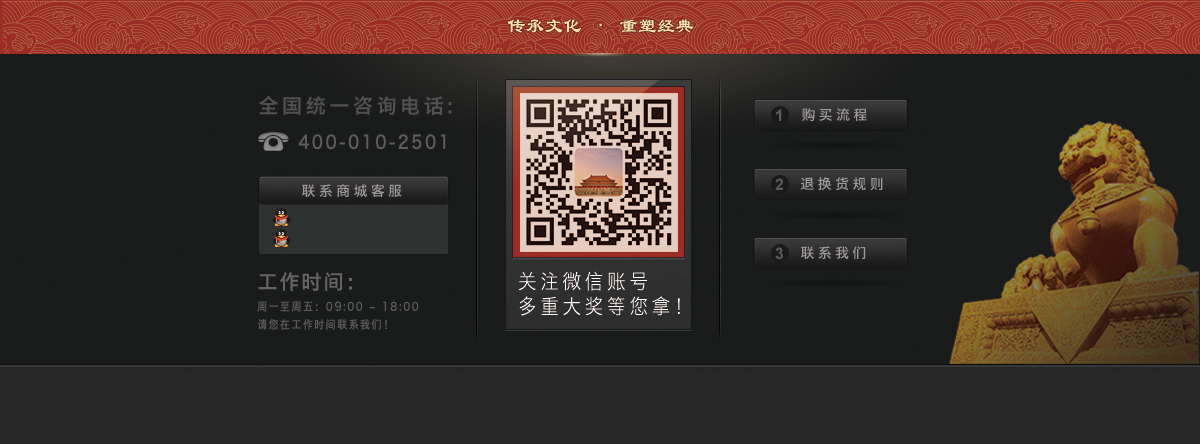
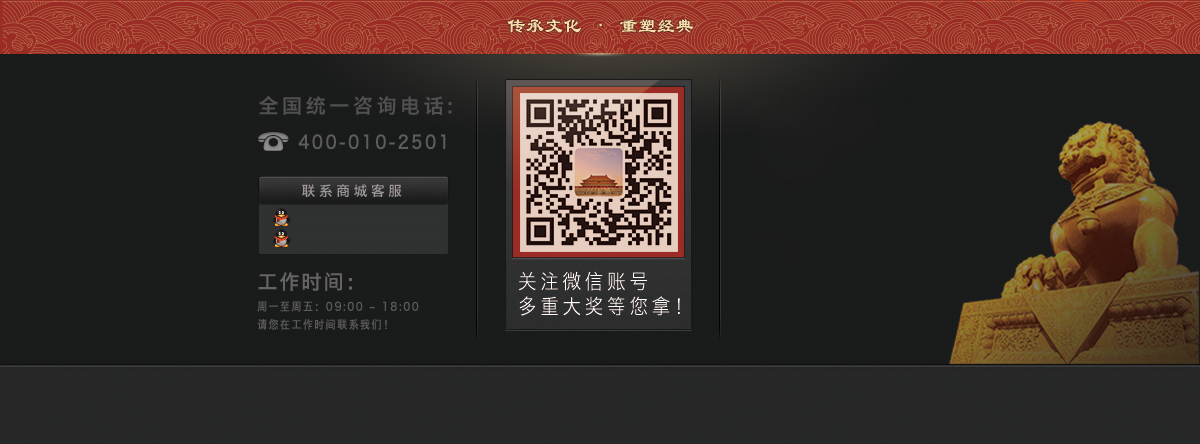
update

Changed region(s): [[0.6167, 0.205, 0.7708, 0.2928], [0.6167, 0.527, 0.7708, 0.5856], [0.6167, 0.3806, 0.7708, 0.4392]]

diff --git a/html/css/style.css b/html/css/style.css
@@ -163,17 +163,49 @@ body{
 	text-decoration: none;
 	background: url(../images/list_menu_hover.png) 0 -38px no-repeat;
 }
+
+@keyframes myfirst
+{
+0% {background: #fff;border: 5px solid #fff;}
+100% {background: #D5BA5A;border: 5px solid #D5BA5A;}
+}
+
+@-moz-keyframes myfirst /* Firefox */
+{
+0% {background: #fff;border: 5px solid #fff;}
+100% {background: #D5BA5A;border: 5px solid #D5BA5A;}
+}
+
+@-webkit-keyframes myfirst /* Safari 和 Chrome */
+{
+0% {background: #fff;border: 5px solid #fff;}
+100% {background: #D5BA5A;border: 5px solid #D5BA5A;}
+}
+
+@-o-keyframes myfirst /* Opera */
+{
+0% {background: #fff;border: 5px solid #fff;}
+100% {background: #D5BA5A;border: 5px solid #D5BA5A;}
+}
 .list_item_wrap li{
 	display: inline-block;
 	width: 255px;
 	height: 203px;
-	padding: 20px;
 	margin-left: 80px;
+	padding-bottom: 10px;
 	margin-bottom: 50px;
-	background: url(../images/list_box_bg1.png) no-repeat;
+	background: #fff;border: 5px solid #fff;
 }
 .list_item_wrap li.active{
-	background: url(../images/list_box_bg.png) no-repeat;
+	animation-iteration-count:1;
+	-webkit-animation-iteration-count:1; 
+	animation: myfirst .5s;
+	-moz-animation: myfirst .5s;
+	-webkit-animation: myfirst .5s;
+	-o-animation: myfirst .5s;
+	animation-direction:alternate;
+	-webkit-animation-direction:alternate;
+	background: #D5BA5A;border: 5px solid #D5BA5A;
 }
 
 .list_item_wrap li a{
@@ -190,12 +222,7 @@ body{
 	top: 0px;
 	left: 0px;
 }
-.list_item_wrap li.active a img{
-	width: 315px;
-	height: 198px;
-	top: -19px;
-	left: -19px;
-}
+
 .list_item_wrap li a div{
 	height: 30px;
 	padding: 10px;
@@ -219,7 +246,7 @@ body{
 	line-height: 16px;
 }
 .list_item_wrap li a:hover p, .list_item_wrap li a:hover span{
-	color: #f58945
+	color: #fff
 }
 .list_item_wrap span{
 	white-space: nowrap;
@@ -1066,4 +1093,28 @@ select{
 	display: inline-block;
 	text-decoration: none;
 	font-size: 14px;
+}
+
+.a_link{
+	position: absolute;
+	top: 100px;
+	left: 755px;
+}
+.a_link a{
+	display: block;
+	width: 137px;
+	height: 55px;
+	padding-left: 17px;
+	background: url(../images/footer_a_bg.jpg) no-repeat;
+	font-size: 14px;
+	color: #a8a7a8;
+	text-decoration: none;
+	line-height: 32px;
+	margin-bottom: 15px;
+}
+.a_link a em{
+	display: inline-block;
+	width: 18px;
+	text-align: center;
+	margin-right: 15px
 }

diff --git a/html/item.html b/html/item.html
@@ -171,6 +171,11 @@
 			<a onclick="javascript:window.open('http://b.qq.com/webc.htm?new=0&amp;sid=2405232166&amp;q=7&amp;ref='+document.location, '_blank', 'height=544, width=644,toolbar=no,scrollbars=no,menubar=no,status=no');">QQ1：2405232166</a>
 			<a onclick="javascript:window.open('http://b.qq.com/webc.htm?new=0&amp;sid=3125281867&amp;q=7&amp;ref='+document.location, '_blank', 'height=544, width=644,toolbar=no,scrollbars=no,menubar=no,status=no');">QQ2：3125281867</a>
 		</div>
+		<div class="a_link">
+			<a href="#"><em>1</em>购买流程</a>
+			<a href="#"><em>2</em>退换货规则</a>
+			<a href="#"><em>3</em>联系我们</a>
+		</div>
 		<img src="images/footer.png" alt="">
 	</div>
 </div>

diff --git a/html/list.html b/html/list.html
@@ -195,6 +195,11 @@
 			<a onclick="javascript:window.open('http://b.qq.com/webc.htm?new=0&amp;sid=2405232166&amp;q=7&amp;ref='+document.location, '_blank', 'height=544, width=644,toolbar=no,scrollbars=no,menubar=no,status=no');">QQ1：2405232166</a>
 			<a onclick="javascript:window.open('http://b.qq.com/webc.htm?new=0&amp;sid=3125281867&amp;q=7&amp;ref='+document.location, '_blank', 'height=544, width=644,toolbar=no,scrollbars=no,menubar=no,status=no');">QQ2：3125281867</a>
 		</div>
+		<div class="a_link">
+			<a href="#"><em>1</em>购买流程</a>
+			<a href="#"><em>2</em>退换货规则</a>
+			<a href="#"><em>3</em>联系我们</a>
+		</div>
 		<img src="images/footer.png" alt="">
 	</div>
 </div>

diff --git a/html/shop.html b/html/shop.html
@@ -182,6 +182,11 @@
 			<a onclick="javascript:window.open('http://b.qq.com/webc.htm?new=0&amp;sid=2405232166&amp;q=7&amp;ref='+document.location, '_blank', 'height=544, width=644,toolbar=no,scrollbars=no,menubar=no,status=no');">QQ1：2405232166</a>
 			<a onclick="javascript:window.open('http://b.qq.com/webc.htm?new=0&amp;sid=3125281867&amp;q=7&amp;ref='+document.location, '_blank', 'height=544, width=644,toolbar=no,scrollbars=no,menubar=no,status=no');">QQ2：3125281867</a>
 		</div>
+		<div class="a_link">
+			<a href="#"><em>1</em>购买流程</a>
+			<a href="#"><em>2</em>退换货规则</a>
+			<a href="#"><em>3</em>联系我们</a>
+		</div>
 		<img src="images/footer.png" alt="">
 	</div>
 </div>

diff --git a/html/shop2.html b/html/shop2.html
@@ -297,6 +297,11 @@
 			<a onclick="javascript:window.open('http://b.qq.com/webc.htm?new=0&amp;sid=2405232166&amp;q=7&amp;ref='+document.location, '_blank', 'height=544, width=644,toolbar=no,scrollbars=no,menubar=no,status=no');">QQ1：2405232166</a>
 			<a onclick="javascript:window.open('http://b.qq.com/webc.htm?new=0&amp;sid=3125281867&amp;q=7&amp;ref='+document.location, '_blank', 'height=544, width=644,toolbar=no,scrollbars=no,menubar=no,status=no');">QQ2：3125281867</a>
 		</div>
+		<div class="a_link">
+			<a href="#"><em>1</em>购买流程</a>
+			<a href="#"><em>2</em>退换货规则</a>
+			<a href="#"><em>3</em>联系我们</a>
+		</div>
 		<img src="images/footer.png" alt="">
 	</div>
 </div>

diff --git a/html/user_center_mylove.html b/html/user_center_mylove.html
@@ -120,6 +120,11 @@
 			<a onclick="javascript:window.open('http://b.qq.com/webc.htm?new=0&amp;sid=2405232166&amp;q=7&amp;ref='+document.location, '_blank', 'height=544, width=644,toolbar=no,scrollbars=no,menubar=no,status=no');">QQ1：2405232166</a>
 			<a onclick="javascript:window.open('http://b.qq.com/webc.htm?new=0&amp;sid=3125281867&amp;q=7&amp;ref='+document.location, '_blank', 'height=544, width=644,toolbar=no,scrollbars=no,menubar=no,status=no');">QQ2：3125281867</a>
 		</div>
+		<div class="a_link">
+			<a href="#"><em>1</em>购买流程</a>
+			<a href="#"><em>2</em>退换货规则</a>
+			<a href="#"><em>3</em>联系我们</a>
+		</div>
 		<img src="images/footer.png" alt="">
 	</div>
 </div>

diff --git a/html/user_center_order.html b/html/user_center_order.html
@@ -109,6 +109,11 @@
 			<a onclick="javascript:window.open('http://b.qq.com/webc.htm?new=0&amp;sid=2405232166&amp;q=7&amp;ref='+document.location, '_blank', 'height=544, width=644,toolbar=no,scrollbars=no,menubar=no,status=no');">QQ1：2405232166</a>
 			<a onclick="javascript:window.open('http://b.qq.com/webc.htm?new=0&amp;sid=3125281867&amp;q=7&amp;ref='+document.location, '_blank', 'height=544, width=644,toolbar=no,scrollbars=no,menubar=no,status=no');">QQ2：3125281867</a>
 		</div>
+		<div class="a_link">
+			<a href="#"><em>1</em>购买流程</a>
+			<a href="#"><em>2</em>退换货规则</a>
+			<a href="#"><em>3</em>联系我们</a>
+		</div>
 		<img src="images/footer.png" alt="">
 	</div>
 </div>

diff --git a/html/user_center_order2.html b/html/user_center_order2.html
@@ -190,6 +190,11 @@
 			<a onclick="javascript:window.open('http://b.qq.com/webc.htm?new=0&amp;sid=2405232166&amp;q=7&amp;ref='+document.location, '_blank', 'height=544, width=644,toolbar=no,scrollbars=no,menubar=no,status=no');">QQ1：2405232166</a>
 			<a onclick="javascript:window.open('http://b.qq.com/webc.htm?new=0&amp;sid=3125281867&amp;q=7&amp;ref='+document.location, '_blank', 'height=544, width=644,toolbar=no,scrollbars=no,menubar=no,status=no');">QQ2：3125281867</a>
 		</div>
+		<div class="a_link">
+			<a href="#"><em>1</em>购买流程</a>
+			<a href="#"><em>2</em>退换货规则</a>
+			<a href="#"><em>3</em>联系我们</a>
+		</div>
 		<img src="images/footer.png" alt="">
 	</div>
 </div>

diff --git a/html/user_center_set_myaddress.html b/html/user_center_set_myaddress.html
@@ -184,6 +184,11 @@
 			<a onclick="javascript:window.open('http://b.qq.com/webc.htm?new=0&amp;sid=2405232166&amp;q=7&amp;ref='+document.location, '_blank', 'height=544, width=644,toolbar=no,scrollbars=no,menubar=no,status=no');">QQ1：2405232166</a>
 			<a onclick="javascript:window.open('http://b.qq.com/webc.htm?new=0&amp;sid=3125281867&amp;q=7&amp;ref='+document.location, '_blank', 'height=544, width=644,toolbar=no,scrollbars=no,menubar=no,status=no');">QQ2：3125281867</a>
 		</div>
+		<div class="a_link">
+			<a href="#"><em>1</em>购买流程</a>
+			<a href="#"><em>2</em>退换货规则</a>
+			<a href="#"><em>3</em>联系我们</a>
+		</div>
 		<img src="images/footer.png" alt="">
 	</div>
 </div>

diff --git a/html/user_center_set_myinfo.html b/html/user_center_set_myinfo.html
@@ -112,6 +112,11 @@
 			<a onclick="javascript:window.open('http://b.qq.com/webc.htm?new=0&amp;sid=2405232166&amp;q=7&amp;ref='+document.location, '_blank', 'height=544, width=644,toolbar=no,scrollbars=no,menubar=no,status=no');">QQ1：2405232166</a>
 			<a onclick="javascript:window.open('http://b.qq.com/webc.htm?new=0&amp;sid=3125281867&amp;q=7&amp;ref='+document.location, '_blank', 'height=544, width=644,toolbar=no,scrollbars=no,menubar=no,status=no');">QQ2：3125281867</a>
 		</div>
+		<div class="a_link">
+			<a href="#"><em>1</em>购买流程</a>
+			<a href="#"><em>2</em>退换货规则</a>
+			<a href="#"><em>3</em>联系我们</a>
+		</div>
 		<img src="images/footer.png" alt="">
 	</div>
 </div>

diff --git a/html/404.html b/html/404.html
@@ -65,6 +65,11 @@
 			<a onclick="javascript:window.open('http://b.qq.com/webc.htm?new=0&amp;sid=2405232166&amp;q=7&amp;ref='+document.location, '_blank', 'height=544, width=644,toolbar=no,scrollbars=no,menubar=no,status=no');">QQ1：2405232166</a>
 			<a onclick="javascript:window.open('http://b.qq.com/webc.htm?new=0&amp;sid=3125281867&amp;q=7&amp;ref='+document.location, '_blank', 'height=544, width=644,toolbar=no,scrollbars=no,menubar=no,status=no');">QQ2：3125281867</a>
 		</div>
+		<div class="a_link">
+			<a href="#"><em>1</em>购买流程</a>
+			<a href="#"><em>2</em>退换货规则</a>
+			<a href="#"><em>3</em>联系我们</a>
+		</div>
 		<img src="images/footer.png" alt="">
 	</div>
 </div>

diff --git a/html/500.html b/html/500.html
@@ -65,6 +65,11 @@
 			<a onclick="javascript:window.open('http://b.qq.com/webc.htm?new=0&amp;sid=2405232166&amp;q=7&amp;ref='+document.location, '_blank', 'height=544, width=644,toolbar=no,scrollbars=no,menubar=no,status=no');">QQ1：2405232166</a>
 			<a onclick="javascript:window.open('http://b.qq.com/webc.htm?new=0&amp;sid=3125281867&amp;q=7&amp;ref='+document.location, '_blank', 'height=544, width=644,toolbar=no,scrollbars=no,menubar=no,status=no');">QQ2：3125281867</a>
 		</div>
+		<div class="a_link">
+			<a href="#"><em>1</em>购买流程</a>
+			<a href="#"><em>2</em>退换货规则</a>
+			<a href="#"><em>3</em>联系我们</a>
+		</div>
 		<img src="images/footer.png" alt="">
 	</div>
 </div>
